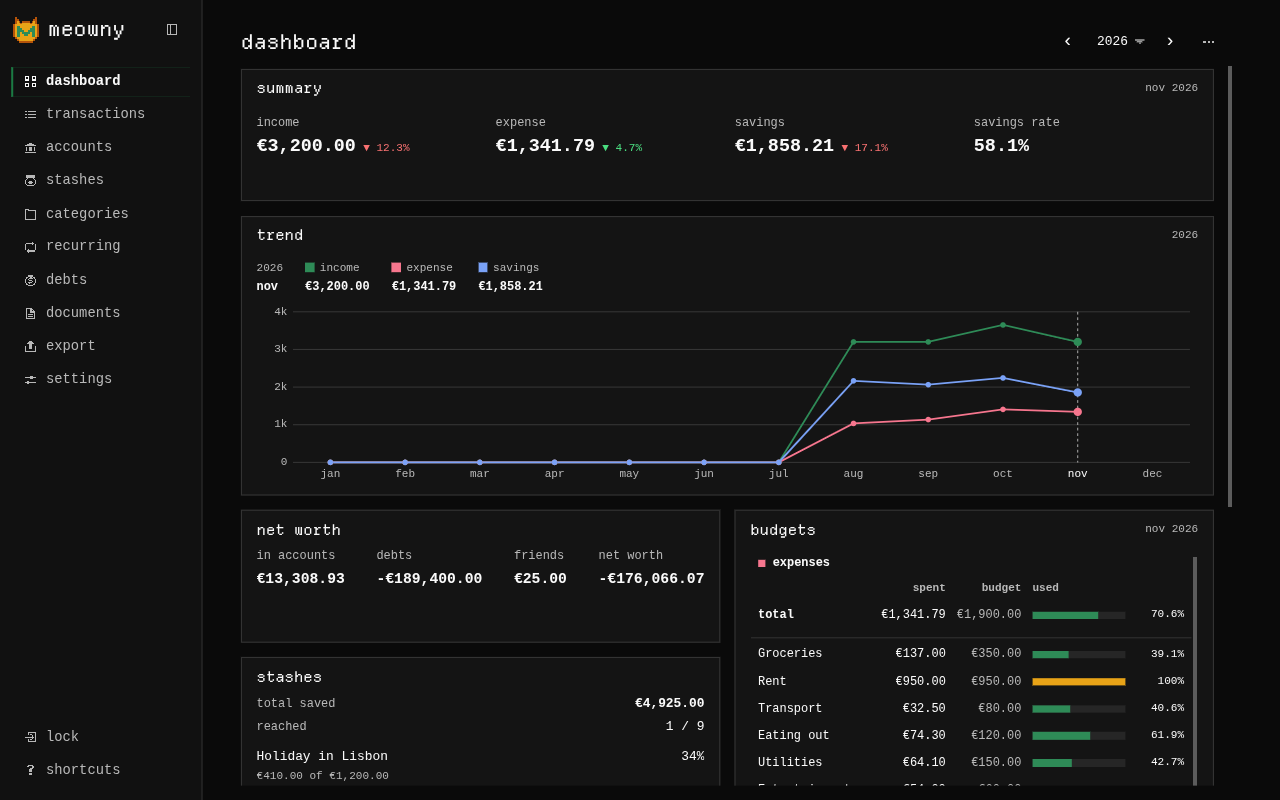
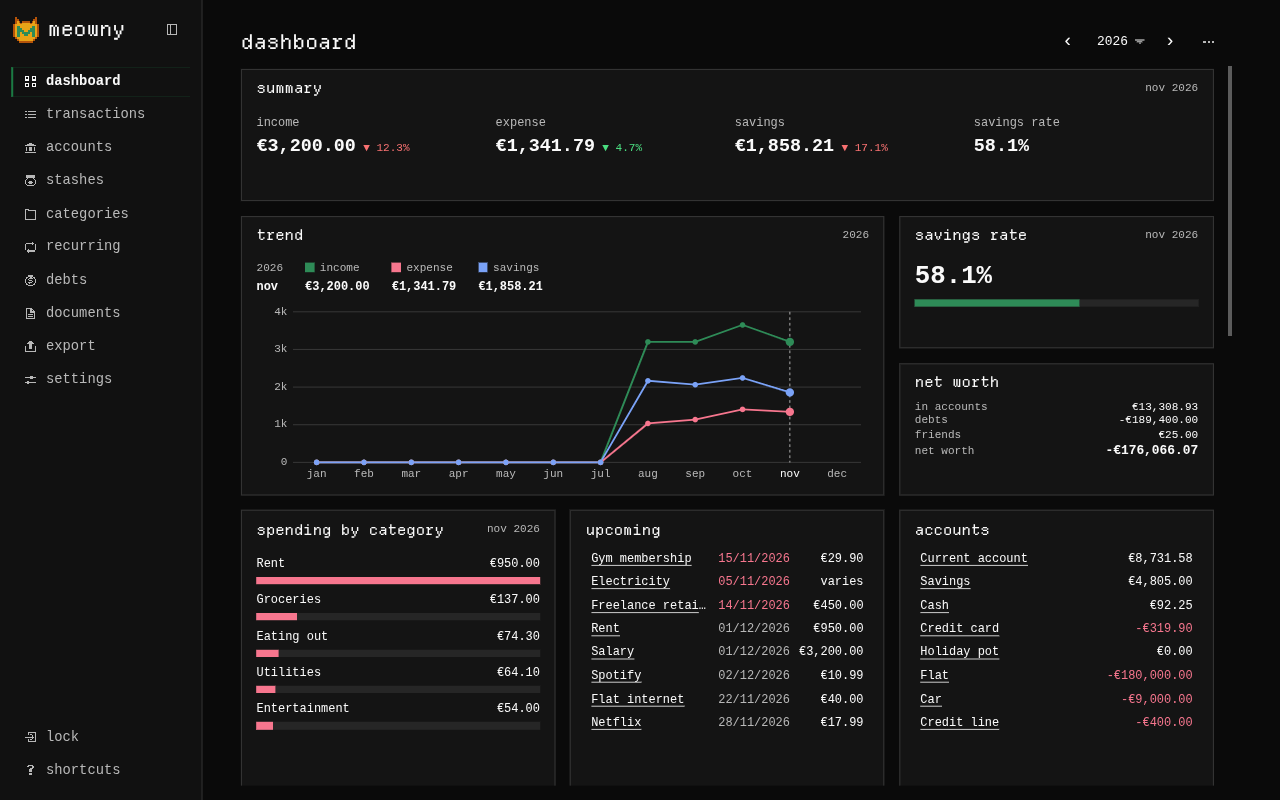
feat(ui): a fuller default dashboard: fifteen widgets in rows that fit together, the trend beside the savings rate and net worth, spending, upcoming and accounts in three, budgets beside cash flow, loans and the main account

diff --git a/ui/src/lib/dashboardLayout.ts b/ui/src/lib/dashboardLayout.ts
@@ -31,10 +31,42 @@ export type WidgetSettings = {
 export type Widget = { id: string; type: WidgetType; w: number; h: number; settings: WidgetSettings }
 export type Layout = { version: 1; widgets: Widget[] }
 
-/** The layout of the app: today's dashboard (section 5). */
-const DEFAULT_TYPES: Record<Profile, WidgetType[]> = {
-  desktop: ['summary', 'trend', 'networth', 'budgets', 'stashes', 'upcoming', 'debts'],
-  phone: ['summary', 'trend', 'networth', 'budgets', 'upcoming', 'stashes'],
+/**
+ * The layout the app starts with (section 5): each widget with its size, in an order that packs without holes. On the desktop, rows of the
+ * 12 columns: the month across the top; the trend beside the savings rate and net worth; spending, upcoming and accounts in three; budgets
+ * beside cash flow, loans and the main account; stashes beside debts; recent transactions beside the top expenses. The phone keeps the ones that read well
+ * in two columns.
+ */
+const DEFAULTS: Record<Profile, [WidgetType, number, number][]> = {
+  desktop: [
+    ['summary', 12, 1],
+    ['trend', 8, 2],
+    ['savingsrate', 4, 1],
+    ['networth', 4, 1],
+    ['spending', 4, 2],
+    ['upcoming', 4, 2],
+    ['accounts', 4, 2],
+    ['budgets', 6, 4],
+    ['cashflow', 6, 2],
+    ['loans', 6, 1],
+    ['account', 6, 1],
+    ['stashes', 6, 2],
+    ['debts', 6, 2],
+    ['recent', 8, 2],
+    ['topexpenses', 4, 2],
+  ],
+  phone: [
+    ['summary', 2, 1],
+    ['savingsrate', 1, 1],
+    ['loans', 1, 1],
+    ['trend', 2, 2],
+    ['networth', 2, 1],
+    ['spending', 2, 2],
+    ['budgets', 2, 4],
+    ['upcoming', 2, 2],
+    ['stashes', 2, 2],
+    ['recent', 2, 2],
+  ],
 }
 
 function widgetOf(type: WidgetType, profile: Profile, id: string): Widget {
@@ -42,7 +74,7 @@ function widgetOf(type: WidgetType, profile: Profile, id: string): Widget {
 }
 
 export function defaultLayout(profile: Profile): Layout {
-  return { version: 1, widgets: DEFAULT_TYPES[profile].map((type) => widgetOf(type, profile, type)) }
+  return { version: 1, widgets: DEFAULTS[profile].map(([type, w, h]) => ({ ...widgetOf(type, profile, type), ...clampSize(type, profile, w, h) })) }
 }
 
 // -- reading ------------------------------------------------------------------------------------------------------------------

diff --git a/ui/src/lib/dashboardLayout.test.ts b/ui/src/lib/dashboardLayout.test.ts
@@ -17,14 +17,14 @@ test('an empty layout, or one with nothing left, is the default', () => {
   assert.deepEqual(parseLayout(layoutOf(widget({ type: 'gone' })), 'phone'), defaultLayout('phone'))
 })
 
-test('the defaults are today\'s dashboard, with sizes the widgets allow', () => {
+test('the defaults keep the sizes they ask for: each one is a size its widget allows', () => {
   assert.deepEqual(
     defaultLayout('desktop').widgets.map((w) => `${w.type} ${w.w}x${w.h}`),
-    ['summary 12x1', 'trend 12x2', 'networth 6x1', 'budgets 6x3', 'stashes 6x2', 'upcoming 6x2', 'debts 6x2'],
+    ['summary 12x1', 'trend 8x2', 'savingsrate 4x1', 'networth 4x1', 'spending 4x2', 'upcoming 4x2', 'accounts 4x2', 'budgets 6x4', 'cashflow 6x2', 'loans 6x1', 'account 6x1', 'stashes 6x2', 'debts 6x2', 'recent 8x2', 'topexpenses 4x2'],
   )
   assert.deepEqual(
     defaultLayout('phone').widgets.map((w) => `${w.type} ${w.w}x${w.h}`),
-    ['summary 2x1', 'trend 2x2', 'networth 2x1', 'budgets 2x3', 'upcoming 2x2', 'stashes 2x2'],
+    ['summary 2x1', 'savingsrate 1x1', 'loans 1x1', 'trend 2x2', 'networth 2x1', 'spending 2x2', 'budgets 2x4', 'upcoming 2x2', 'stashes 2x2', 'recent 2x2'],
   )
 })
 
@@ -86,11 +86,11 @@ test('resizing is clamped to the widget, adding appends at its start size, remov
   const added = addWidget(layout, 'stashes', 'desktop', 'n1')
   assert.deepEqual(added.widgets.at(-1), { id: 'n1', type: 'stashes', w: 6, h: 2, settings: {} })
   assert.equal(addWidget(added, 'stashes', 'desktop', 'n1'), added)
-  assert.equal(resizeWidget(layout, 'networth', 6, 1, 'desktop'), layout)
+  assert.equal(resizeWidget(layout, 'networth', 4, 1, 'desktop'), layout)
   assert.equal(resizeWidget(layout, 'nothing', 6, 2, 'desktop'), layout)
   assert.equal(moveWidget(layout, 'summary', 0), layout)
-  assert.equal(removeWidget(layout, 'trend').widgets.length, 6)
-  assert.equal(removeWidget(layout, 'nothing').widgets.length, 7)
+  assert.equal(removeWidget(layout, 'trend').widgets.length, 14)
+  assert.equal(removeWidget(layout, 'nothing').widgets.length, 15)
 })
 
 test('settings are cleaned when they are set', () => {

diff --git a/docs/dashboard-design.md b/docs/dashboard-design.md
@@ -77,9 +77,15 @@ tall. The default height of a widget is the one its content fits in, so a short 
 
 ## 5. Default layouts
 
-- **Desktop:** month summary 12×1; trend 12×2; net worth 6×1; budgets 6×3; stashes 6×2; upcoming 6×2; debts 6×2 — today's dashboard. The net worth is one
-  row, beside the budgets (three rows), and the stashes pack under it.
-- **Phone:** month summary 2×1; trend 2×2; net worth 2×1; budgets 2×3; upcoming 2×2; stashes 2×2.
+- **Desktop**, row by row on the 12 columns:
+  - month summary 12×1;
+  - trend 8×2, with savings rate 4×1 and net worth 4×1 beside it;
+  - spending by category 4×2, upcoming 4×2, accounts 4×2;
+  - budgets 6×4, with cash flow 6×2, loans 6×1 and the main account 6×1 beside it;
+  - stashes 6×2, debts 6×2;
+  - recent transactions 8×2, top expenses 4×2.
+- **Phone:** month summary 2×1; savings rate 1×1 and loans 1×1; trend 2×2; net worth 2×1; spending by category 2×2; budgets 2×4;
+  upcoming 2×2; stashes 2×2; recent transactions 2×2.
 
 ## 6. Storage
 
